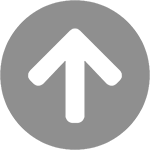
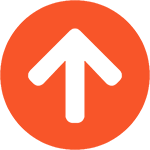
v1_25

diff --git a/src/sectionComponents/portfolio.js b/src/sectionComponents/portfolio.js
@@ -8,19 +8,22 @@ import ImgPortfolio5 from '../images/websites/portfolio5.png';
 import ImgPortfolio6 from '../images/websites/portfolio6.png';
 import ImgPortfolio7 from '../images/websites/portfolio7.png';
 import ImgPortfolio8 from '../images/websites/portfolio8.png';
-import ImgPortfolio9 from '../images/websites/portfolio9.png';
+// import ImgPortfolio9 from '../images/websites/portfolio9.png';
 import ImgPortfolio10 from '../images/websites/portfolio10.png';
 import ImgPortfolio11 from '../images/websites/portfolio11.png';
 import ImgPortfolio12 from '../images/websites/portfolio12.png';
 import ImgPortfolio13 from '../images/websites/portfolio13.png';
 import ImgPortfolio14 from '../images/websites/portfolio14.png';
+import ImgPortfolio15 from '../images/websites/portfolio15.png';
+import ImgWeb from '../images/web.png';
+import ImgCode from '../images/code.png';
 
 const arrayPortfolioAll = [
     {
         id: 1,
         name: 'Portfolio',
         language: ["HTML5", "CSS3", "SCSS", "JavaScript", "React", "Bootstrap 4"],
-        linkWeb: 'https://mazurro1.github.io/portfolio/',
+        linkWeb: '',
         linkCode: 'https://github.com/mazurro1/portfolio',
         image: ImgPortfolio14,
     },
@@ -30,14 +33,14 @@ const arrayPortfolioAll = [
         language: ["HTML5", "CSS3", "SCSS", "JavaScript", "Bootstrap 4"],
         linkWeb: 'https://www.pc-tech.pl/',
         linkCode: 'https://github.com/mazurro1/pc-tech',
-        image: ImgPortfolio2,
+        image: ImgPortfolio15,
     },
     {
         id: 3,
         name: 'PC-Tech Old',
         language: ["HTML5", "CSS3", "Bootstrap 4"],
-        linkWeb: '',
-        linkCode: '',
+        linkWeb: 'https://mazurro1.github.io/PC-tech-old-v3/',
+        linkCode: 'https://github.com/mazurro1/PC-tech-old-v3',
         image: ImgPortfolio2,
     },
     {
@@ -69,7 +72,7 @@ const arrayPortfolioAll = [
         name: 'Portfolio Old',
         language: ["HTML5", "CSS3", "Bootstrap 4", "JavaScript"],
         linkWeb: '',
-        linkCode: '',
+        linkCode: 'https://github.com/mazurro1/portfolio_oldv2',
         image: ImgPortfolio1,
     },
     {
@@ -96,14 +99,14 @@ const arrayPortfolioAll = [
         linkCode: 'https://github.com/mazurro1/template2',
         image: ImgPortfolio8,
     },
-    {
-        id: 11,
-        name: 'PSP',
-        language: ["HTML5", "CSS", "Flash"],
-        linkWeb: '',
-        linkCode: '',
-        image: ImgPortfolio9,
-    },
+    // {
+    //     id: 11,
+    //     name: 'PSP',
+    //     language: ["HTML5", "CSS", "Flash"],
+    //     linkWeb: '',
+    //     linkCode: '',
+    //     image: ImgPortfolio9,
+    // },
     {
         id: 12,
         name: 'Inter Pako',
@@ -214,10 +217,15 @@ const CreateProjectsOne = ({ image, linkCode, linkWeb, language, name, colorBg }
             <div className="content">
                 <div className="scrollDown">
                     <a href={linkWeb} target="_blank" rel="noopener noreferrer">
-                        <button className={`${colorBg}`}>Live</button>
+                        <button className={`${colorBg}`}>
+                            <img src={ImgWeb} alt="" />
+                        </button>
                     </a>
                     <a href={linkCode} target="_blank" rel="noopener noreferrer">
-                        <button className={`${colorBg}`}>Code</button>
+                        <button className={`${colorBg}`}>
+                            <img src={ImgCode} alt="" />
+                        </button>
+
                     </a>
                 </div>
                 <img src={image} alt="" className="img-fluid" />

diff --git a/src/header.js b/src/header.js
@@ -157,12 +157,12 @@ const CreateForm = ({ welcome, clickChange, handleChangeImageNumber, choseImage,
         <form>
             <div className="row">
                 <label htmlFor="welcomeText" className="col-12">
-                    <p className={`${colorTxt}`}>Wpisz swój tekst powitalny</p>
+                    <p className={`${colorTxt}`}>Enter your welcome text</p>
                     <input type="text" id="welcomeText" width="48" height="48" value={welcome} onChange={clickChange} className={`${colorBg}`} />
                 </label>
 
                 <label htmlFor="changeImage" className="col-12">
-                    <p className={`${colorTxt}`}>Zmień zdjęcie główne</p>
+                    <p className={`${colorTxt}`}>Change the main photo</p>
                     <div className="buttons">
                         <button
                             className={choseImage === 1 ? `activeB` : `${colorTxt}`}
@@ -178,20 +178,20 @@ const CreateForm = ({ welcome, clickChange, handleChangeImageNumber, choseImage,
                 </label>
 
                 <label htmlFor="changeColor" className="col-12">
-                    <p className={`${colorTxt}`}>Zmień kolorystyke strony</p>
+                    <p className={`${colorTxt}`}>Change the color of the page</p>
                     <div className="buttonsColor">
                         <button
                             className={choseColor === 'blue' ? `activeB` : `${colorTxt}`}
-                            onClick={(e) => handleChangeColor(e, 'blue')}>Niebieski</button>
+                            onClick={(e) => handleChangeColor(e, 'blue')}>Blue</button>
                         <button
                             className={choseColor === 'red' ? `activeB` : `${colorTxt}`}
-                            onClick={(e) => handleChangeColor(e, 'red')}>Czerwony</button>
+                            onClick={(e) => handleChangeColor(e, 'red')}>Red</button>
                         <button
                             className={choseColor === 'green' ? `activeB` : `${colorTxt}`}
-                            onClick={(e) => handleChangeColor(e, 'green')}>Zielony</button>
+                            onClick={(e) => handleChangeColor(e, 'green')}>Green</button>
                         <button
                             className={choseColor === 'gray' ? `activeB` : `${colorTxt}`}
-                            onClick={(e) => handleChangeColor(e, 'gray')}>Szary</button>
+                            onClick={(e) => handleChangeColor(e, 'gray')}>Orange</button>
                     </div>
                 </label>
             </div>

diff --git a/src/sass/portfolio.scss b/src/sass/portfolio.scss
@@ -146,13 +146,15 @@
                 button{
                     position: relative;
                     padding: 5px 0;
-                    width: 150px;
+                    width: 120px;
+                    height: 80px;
                     margin: 10px;
                     top: 50%;
                     transform: translate(0, -50%);
                     border-radius: 10px;
                     border: none;
-                    // background: whitek;
+                    background: white;
+                    text-align: center;
                     color: black;
                     font-weight: bold;
                     transition-property: filter;
@@ -175,6 +177,35 @@
                         &{
                             top: 30%;
                         }
+                    }
+                    @media all and (max-width: 575px){
+                        &{
+                            width: 100px;
+                            height: 50px;
+                        }
+                    }
+
+                    @media all and (max-width: 326px){
+                        &{
+                            top: 0px;
+                         
+                           
+                        }
+                    }
+                    img{
+                        position: relative;
+                        width: 50px;
+                        top: 50px;
+                        @media all and (max-width: 575px){
+                            &{
+                                top: 40px;
+                                width: 40px;
+                               
+                            }
+                        }
+
+                        
+    
                     }
                 }
             }

diff --git a/src/sass/aboutMe.scss b/src/sass/aboutMe.scss
@@ -119,28 +119,28 @@
 
 
 .redBg{
-    background-color: rgb(182, 33, 33);
+    background-color: #e51f1f;
 }
 
 .redTxt{
-    color: rgb(182, 33, 33);
-    border-color: rgb(182, 33, 33);
+    color: #e51f1f;
+    border-color: #e51f1f;
 }
 
 .greenBg{
-    background-color: rgb(2, 100, 10);
+    background-color: #0dbf16;
 }
 
 .greenTxt{
-    color: rgb(2, 100, 10);
-    border-color: rgb(2, 100, 10);
+    color: #0dbf16;
+    border-color: #0dbf16;
 }
 
 .grayBg{
-    background-color: rgb(143, 143, 143);
+    background-color: #f85529;
 }
 
 .grayTxt{
-    color: rgb(143, 143, 143);
-    border-color: rgb(143, 143, 143);
+    color: #f85529;
+    border-color: #f85529;
 }

diff --git a/src/sass/header.scss b/src/sass/header.scss
@@ -66,10 +66,10 @@
         
         
         label{
-            margin-bottom: 20px;
-            @media all and (min-width: 768px) {
+            margin-bottom: 40px;
+            @media all and (max-width: 768px) {
                 &{
-                    margin-bottom: 0px;
+                    margin-bottom: 10px;
                 }
             }
 
